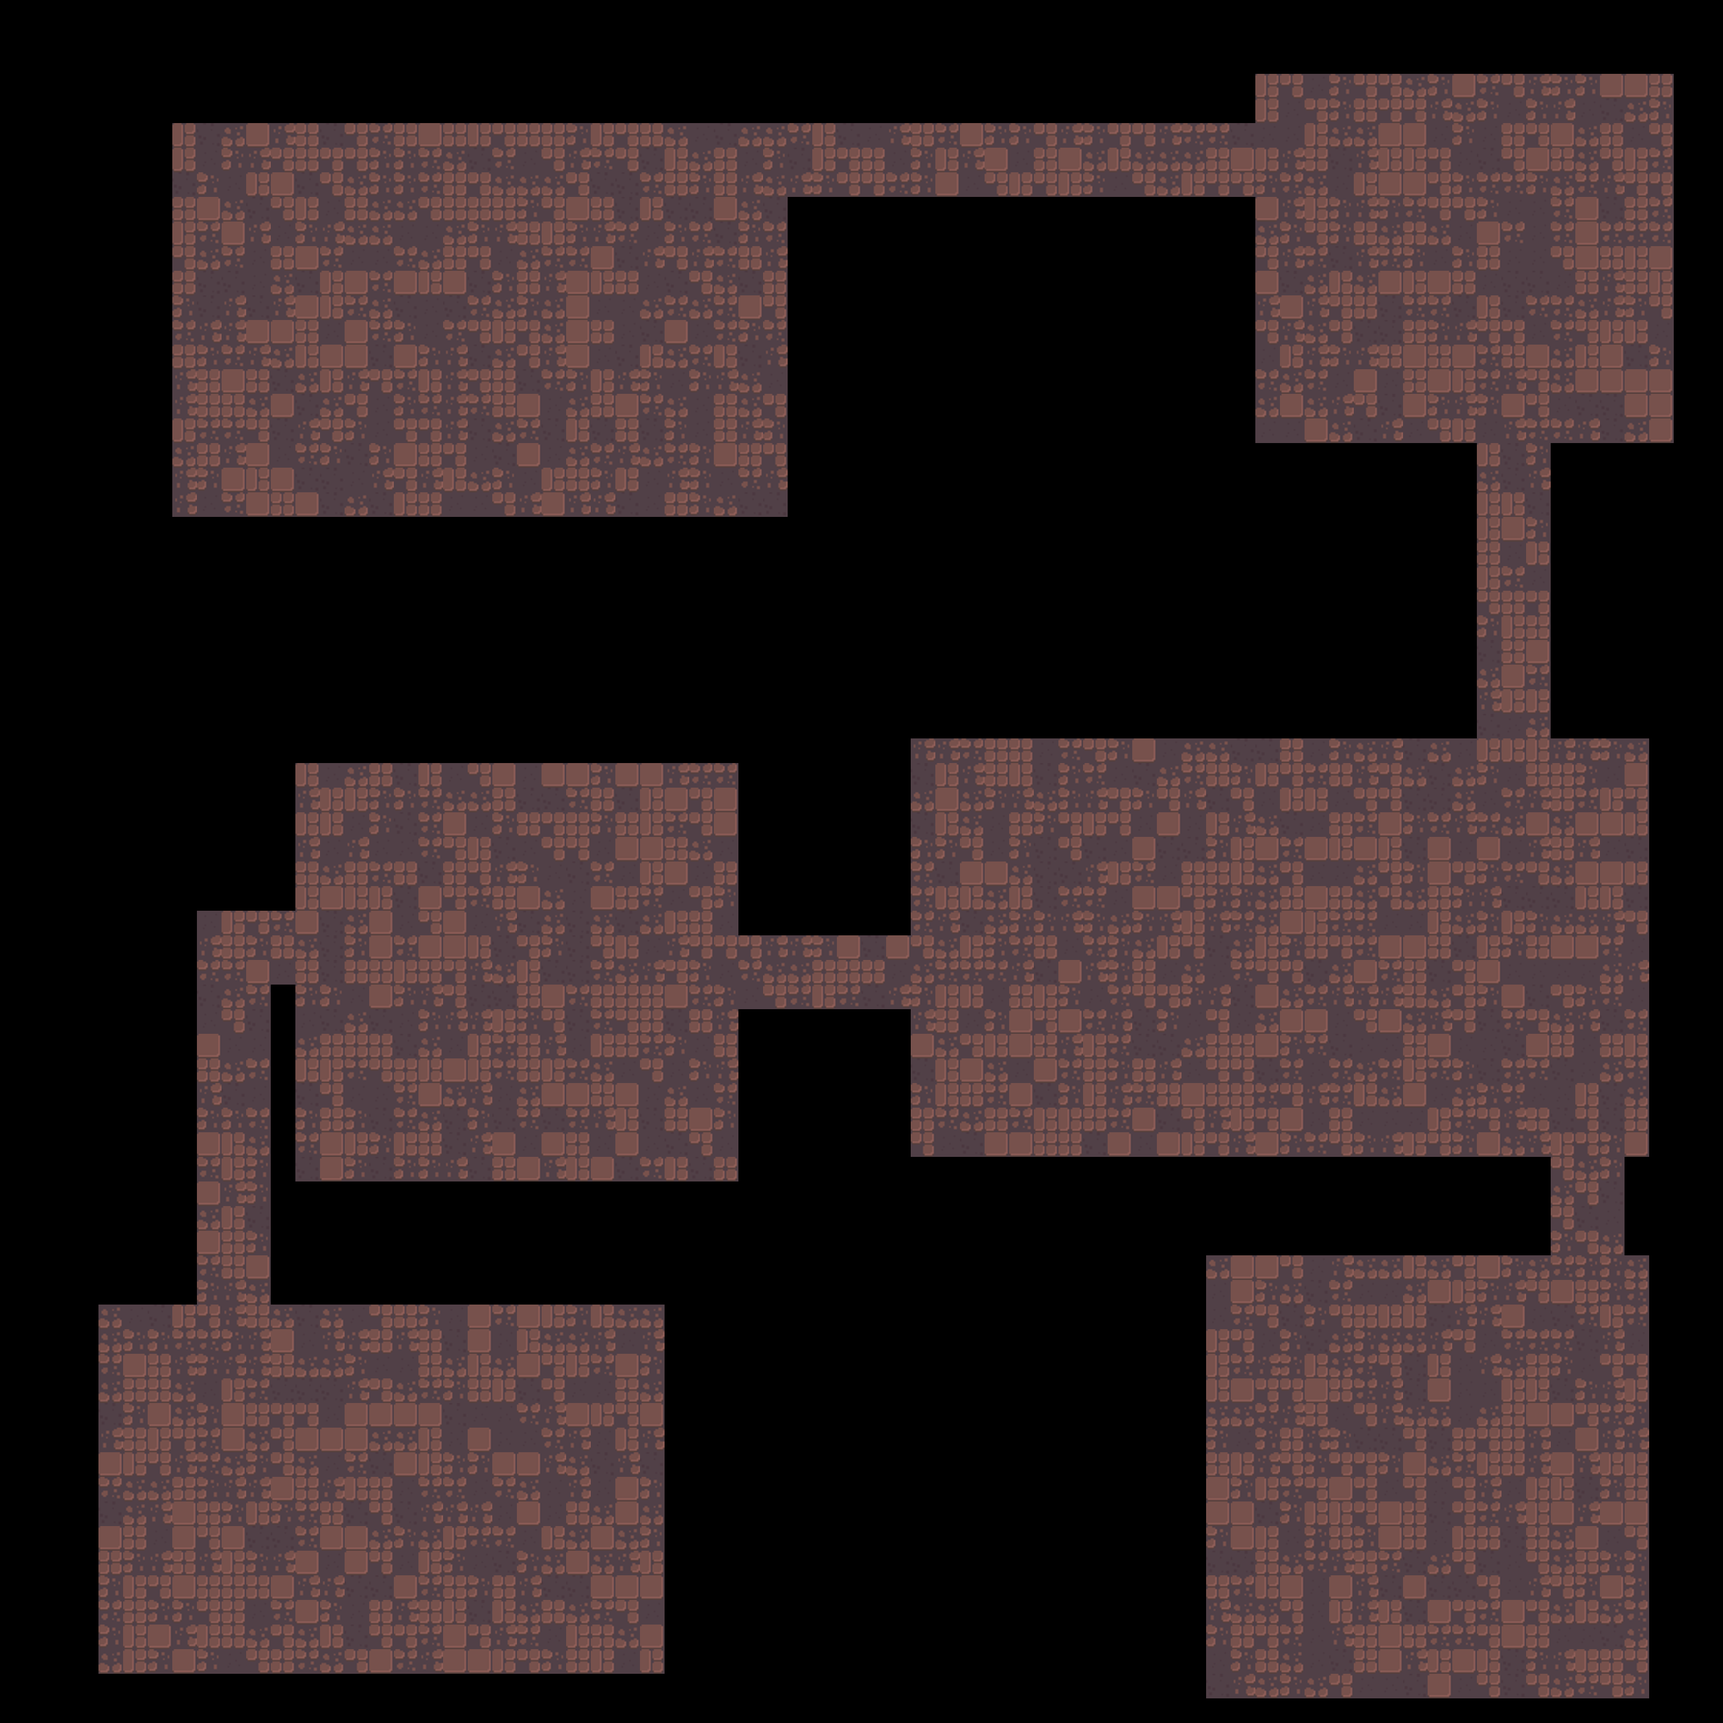
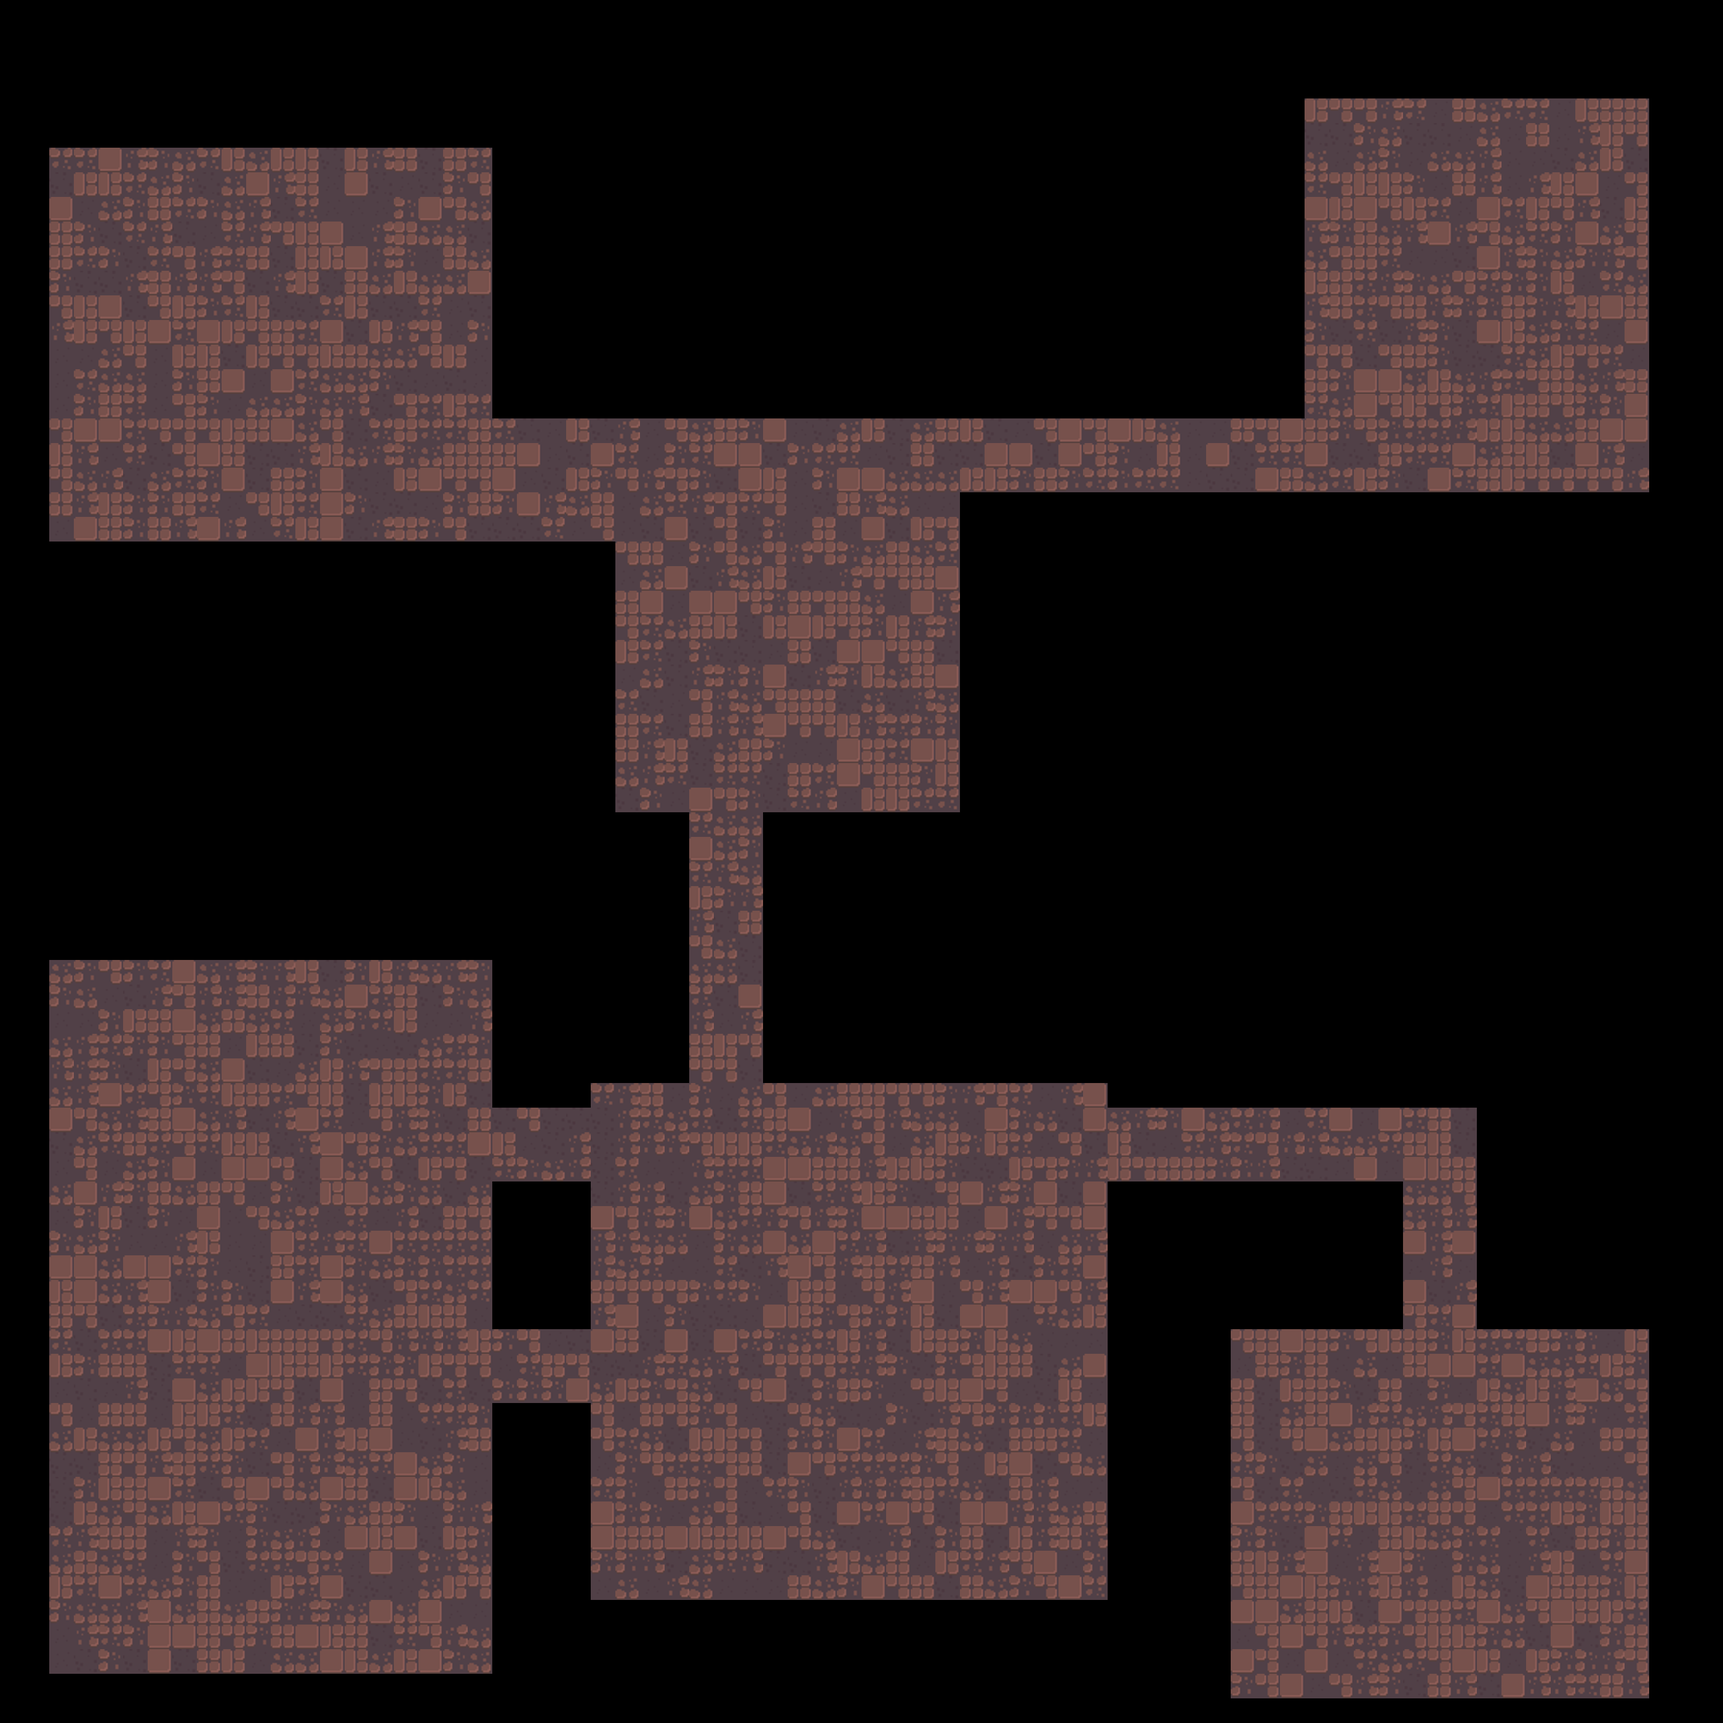
25 guns add

diff --git a/guns.py b/guns.py
@@ -1,0 +1,156 @@
+
+import pygame
+
+from functions import load_image
+from weapons import Gun
+
+
+class Gun1(Gun):
+    def __init__(self):
+        image = load_image('RoguelikeWeapons/Bullets 2-Sheet.png').subsurface(pygame.rect.Rect((32 * 1, 0), (32, 32)))
+        super(Gun1, self).__init__('RoguelikeWeapons/Weapons 1-Sheet.png', rows=8, columns=25, column=1,
+                                       width_image=70, damage=10, cooldown=0.5, bullet=image, max_columns=3)
+class Gun2(Gun):
+    def __init__(self):
+        image = load_image('RoguelikeWeapons/Bullets 2-Sheet.png').subsurface(pygame.rect.Rect((32 * 1, 0), (32, 32)))
+        super(Gun2, self).__init__('RoguelikeWeapons/Weapons 1-Sheet.png', rows=8, columns=25, column=2,
+                                       width_image=70, damage=10, cooldown=0.5, bullet=image, max_columns=3)
+
+class Gun3(Gun):
+    def __init__(self):
+        image = load_image('RoguelikeWeapons/Bullets 2-Sheet.png').subsurface(pygame.rect.Rect((32 * 1, 0), (32, 32)))
+        super(Gun3, self).__init__('RoguelikeWeapons/Weapons 1-Sheet.png', rows=8, columns=25, column=3,
+                                       width_image=70, damage=10, cooldown=0.5, bullet=image, max_columns=3)
+
+class Gun4(Gun):
+    def __init__(self):
+        image = load_image('RoguelikeWeapons/Bullets 2-Sheet.png').subsurface(pygame.rect.Rect((32 * 1, 0), (32, 32)))
+        super(Gun4, self).__init__('RoguelikeWeapons/Weapons 1-Sheet.png', rows=8, columns=25, column=4,
+                                       width_image=70, damage=10, cooldown=0.5, bullet=image, max_columns=3)
+
+class Gun5(Gun):
+    def __init__(self):
+        image = load_image('RoguelikeWeapons/Bullets 2-Sheet.png').subsurface(pygame.rect.Rect((32 * 1, 0), (32, 32)))
+        super(Gun5, self).__init__('RoguelikeWeapons/Weapons 1-Sheet.png', rows=8, columns=25, column=5,
+                                       width_image=70, damage=10, cooldown=0.5, bullet=image, max_columns=3)
+class Gun6(Gun):
+    def __init__(self):
+        image = load_image('RoguelikeWeapons/Bullets 2-Sheet.png').subsurface(pygame.rect.Rect((32 * 1, 0), (32, 32)))
+        super(Gun6, self).__init__('RoguelikeWeapons/Weapons 1-Sheet.png', rows=8, columns=25, column=6,
+                                       width_image=70, damage=10, cooldown=0.5, bullet=image, max_columns=3)
+
+class Gun7(Gun):
+    def __init__(self):
+        image = load_image('RoguelikeWeapons/Bullets 2-Sheet.png').subsurface(pygame.rect.Rect((32 * 1, 0), (32, 32)))
+        super(Gun7, self).__init__('RoguelikeWeapons/Weapons 1-Sheet.png', rows=8, columns=25, column=7,
+                                       width_image=70, damage=10, cooldown=0.5, bullet=image, max_columns=3)
+
+class Gun8(Gun):
+    def __init__(self):
+        image = load_image('RoguelikeWeapons/Bullets 2-Sheet.png').subsurface(pygame.rect.Rect((32 * 1, 0), (32, 32)))
+        super(Gun8, self).__init__('RoguelikeWeapons/Weapons 1-Sheet.png', rows=8, columns=25, column=8,
+                                       width_image=70, damage=10, cooldown=0.5, bullet=image, max_columns=3)
+
+class Gun9(Gun):
+    def __init__(self):
+        image = load_image('RoguelikeWeapons/Bullets 2-Sheet.png').subsurface(pygame.rect.Rect((32 * 1, 0), (32, 32)))
+        super(Gun9, self).__init__('RoguelikeWeapons/Weapons 1-Sheet.png', rows=8, columns=25, column=9,
+                                       width_image=70, damage=10, cooldown=0.5, bullet=image, max_columns=4)
+class Gun10(Gun):
+    def __init__(self):
+        image = load_image('RoguelikeWeapons/Bullets 2-Sheet.png').subsurface(pygame.rect.Rect((32 * 1, 0), (32, 32)))
+        super(Gun10, self).__init__('RoguelikeWeapons/Weapons 1-Sheet.png', rows=8, columns=25, column=10,
+                                       width_image=70, damage=10, cooldown=0.5, bullet=image, max_columns=3)
+
+class Gun11(Gun):
+    def __init__(self):
+        image = load_image('RoguelikeWeapons/Bullets 2-Sheet.png').subsurface(pygame.rect.Rect((32 * 1, 0), (32, 32)))
+        super(Gun11, self).__init__('RoguelikeWeapons/Weapons 1-Sheet.png', rows=8, columns=25, column=11,
+                                       width_image=70, damage=10, cooldown=0.5, bullet=image, max_columns=3)
+
+class Gun12(Gun):
+    def __init__(self):
+        image = load_image('RoguelikeWeapons/Bullets 2-Sheet.png').subsurface(pygame.rect.Rect((32 * 1, 0), (32, 32)))
+        super(Gun12, self).__init__('RoguelikeWeapons/Weapons 1-Sheet.png', rows=8, columns=25, column=12,
+                                       width_image=70, damage=10, cooldown=0.5, bullet=image, max_columns=3)
+
+class Gun13(Gun):
+    def __init__(self):
+        image = load_image('RoguelikeWeapons/Bullets 2-Sheet.png').subsurface(pygame.rect.Rect((32 * 1, 0), (32, 32)))
+        super(Gun13, self).__init__('RoguelikeWeapons/Weapons 1-Sheet.png', rows=8, columns=25, column=13,
+                                       width_image=70, damage=10, cooldown=0.5, bullet=image, max_columns=3)
+class Gun14(Gun):
+    def __init__(self):
+        image = load_image('RoguelikeWeapons/Bullets 2-Sheet.png').subsurface(pygame.rect.Rect((32 * 1, 0), (32, 32)))
+        super(Gun14, self).__init__('RoguelikeWeapons/Weapons 1-Sheet.png', rows=8, columns=25, column=14,
+                                       width_image=70, damage=10, cooldown=0.5, bullet=image, max_columns=4)
+
+class Gun15(Gun):
+    def __init__(self):
+        image = load_image('RoguelikeWeapons/Bullets 2-Sheet.png').subsurface(pygame.rect.Rect((32 * 1, 0), (32, 32)))
+        super(Gun15, self).__init__('RoguelikeWeapons/Weapons 1-Sheet.png', rows=8, columns=25, column=15,
+                                       width_image=70, damage=10, cooldown=0.5, bullet=image, max_columns=3)
+
+class Gun16(Gun):
+    def __init__(self):
+        image = load_image('RoguelikeWeapons/Bullets 2-Sheet.png').subsurface(pygame.rect.Rect((32 * 1, 0), (32, 32)))
+        super(Gun16, self).__init__('RoguelikeWeapons/Weapons 1-Sheet.png', rows=8, columns=25, column=16,
+                                       width_image=70, damage=10, cooldown=0.5, bullet=image, max_columns=3)
+
+class Gun17(Gun):
+    def __init__(self):
+        image = load_image('RoguelikeWeapons/Bullets 2-Sheet.png').subsurface(pygame.rect.Rect((32 * 1, 0), (32, 32)))
+        super(Gun17, self).__init__('RoguelikeWeapons/Weapons 1-Sheet.png', rows=8, columns=25, column=17,
+                                       width_image=70, damage=10, cooldown=0.5, bullet=image, max_columns=3)
+class Gun18(Gun):
+    def __init__(self):
+        image = load_image('RoguelikeWeapons/Bullets 2-Sheet.png').subsurface(pygame.rect.Rect((32 * 1, 0), (32, 32)))
+        super(Gun18, self).__init__('RoguelikeWeapons/Weapons 1-Sheet.png', rows=8, columns=25, column=18,
+                                       width_image=70, damage=10, cooldown=0.5, bullet=image, max_columns=4)
+
+class Gun19(Gun):
+    def __init__(self):
+        image = load_image('RoguelikeWeapons/Bullets 2-Sheet.png').subsurface(pygame.rect.Rect((32 * 1, 0), (32, 32)))
+        super(Gun19, self).__init__('RoguelikeWeapons/Weapons 1-Sheet.png', rows=8, columns=25, column=19,
+                                       width_image=70, damage=10, cooldown=0.5, bullet=image, max_columns=4)
+
+class Gun20(Gun):
+    def __init__(self):
+        image = load_image('RoguelikeWeapons/Bullets 2-Sheet.png').subsurface(pygame.rect.Rect((32 * 1, 0), (32, 32)))
+        super(Gun20, self).__init__('RoguelikeWeapons/Weapons 1-Sheet.png', rows=8, columns=25, column=20,
+                                       width_image=70, damage=10, cooldown=0.5, bullet=image, max_columns=4)
+
+
+class Gun21(Gun):
+    def __init__(self):
+        image = load_image('RoguelikeWeapons/Bullets 2-Sheet.png').subsurface(pygame.rect.Rect((32 * 1, 0), (32, 32)))
+        super(Gun21, self).__init__('RoguelikeWeapons/Weapons 1-Sheet.png', rows=8, columns=25, column=21,
+                                   width_image=70, damage=10, cooldown=0.5, bullet=image, max_columns=4)
+
+
+class Gun22(Gun):
+    def __init__(self):
+        image = load_image('RoguelikeWeapons/Bullets 2-Sheet.png').subsurface(pygame.rect.Rect((32 * 1, 0), (32, 32)))
+        super(Gun22, self).__init__('RoguelikeWeapons/Weapons 1-Sheet.png', rows=8, columns=25, column=22,
+                                   width_image=70, damage=10, cooldown=0.5, bullet=image, max_columns=4)
+
+
+class Gun23(Gun):
+    def __init__(self):
+        image = load_image('RoguelikeWeapons/Bullets 2-Sheet.png').subsurface(pygame.rect.Rect((32 * 1, 0), (32, 32)))
+        super(Gun23, self).__init__('RoguelikeWeapons/Weapons 1-Sheet.png', rows=8, columns=25, column=23,
+                                   width_image=70, damage=10, cooldown=0.5, bullet=image, max_columns=4)
+
+
+class Gun24(Gun):
+    def __init__(self):
+        image = load_image('RoguelikeWeapons/Bullets 2-Sheet.png').subsurface(pygame.rect.Rect((32 * 1, 0), (32, 32)))
+        super(Gun24, self).__init__('RoguelikeWeapons/Weapons 1-Sheet.png', rows=8, columns=25, column=24,
+                                   width_image=70, damage=10, cooldown=0.5, bullet=image, max_columns=5)
+
+
+class Gun25(Gun):
+    def __init__(self):
+        image = load_image('RoguelikeWeapons/Bullets 2-Sheet.png').subsurface(pygame.rect.Rect((32 * 1, 0), (32, 32)))
+        super(Gun25, self).__init__('RoguelikeWeapons/Weapons 1-Sheet.png', rows=8, columns=25, column=25,
+                                   width_image=70, damage=10, cooldown=3, bullet=image, max_columns=8)

diff --git a/weapons.py b/weapons.py
@@ -1,4 +1,5 @@
 import math
+import random
 import threading
 import time
 from abc import abstractmethod
@@ -21,8 +22,8 @@ class Weapon(pygame.sprite.Sprite):
         self.max_columns: int = max_columns
 
         new_img = Image.open(first_img).convert('RGBA')
-        new_img = new_img.resize(((int)(new_img.size[0] * (width_image / (new_img.size[1] / rows))),
-                                  (int)(new_img.size[1] * (width_image / (new_img.size[1] / rows)))))
+        new_img = new_img.resize(((int)(rows * width_image),
+                                  (int)(columns * width_image)))
         new_img.save('cache/weapon.png')
 
         sheet = load_image('cache/weapon.png')
@@ -48,8 +49,8 @@ class Weapon(pygame.sprite.Sprite):
 
         self.column: int = column
 
-        self.rect = pygame.Rect(0, 0, self.sheet.get_height() // self.rows,
-                                self.sheet.get_height() // self.rows)
+        self.rect = pygame.Rect(0, 0, width_image,
+                                width_image)
 
         self.frames: list = []
         self.cur_frame: int = 0
@@ -138,12 +139,18 @@ class ShortGun(Weapon):
 
     def attack(self, target: tuple[int, int]):
         for i in range(10):
-            Bullet(self.bullet, (self.rect.x, self.rect.y), target, 10, self.damage, rotate=self.angle, resize=40)
+            vec = [target[0] - self.rect.x, target[1] - self.rect.y]
+            angle = random.uniform(-0.15, 0.15)
+            rotatedX = vec[0] * math.cos(angle) - vec[1] * math.sin(angle)
+            rotatedY = vec[0] * math.sin(angle) + vec[1] * math.cos(angle)
+            Bullet(self.bullet, (self.rect.x, self.rect.y), (rotatedX + self.rect.x, rotatedY + self.rect.y), random.randint(5, 16), self.damage, rotate=self.angle, resize=40, kill_time=0.4)
 
 
 class Bow(Weapon):
     def __init__(self):
-        super(Bow, self).__init__()
+        image = load_image('RoguelikeWeapons/Bullets 3-Sheet.png').subsurface(pygame.rect.Rect((32 * 9, 0), (32, 32)))
+        super(ShortGun, self).__init__('RoguelikeWeapons/Weapons 2-Sheet.png', rows=11, columns=8, column=4,
+                                       width_image=50, damage=2, cooldown=0.5, bullet=image, max_columns=3)
 
 
 class Sword(Weapon):
@@ -152,10 +159,10 @@ class Sword(Weapon):
 
 
 class Gun(Weapon):
-    def __init__(self):
-        image = load_image('RoguelikeWeapons/Bullets 3-Sheet.png').subsurface(pygame.rect.Rect((32 * 23, 0), (32, 32)))
-        super(Gun, self).__init__('RoguelikeWeapons/Weapons 2-Sheet.png', rows=11, columns=8, column=5,
-                                  width_image=50, cooldown=0.5, damage=30, bullet=image)
+    def __init__(self, first_img: str, rows: int, columns: int, column: int,
+                 width_image: int, cooldown: float, damage: int, max_columns: int, bullet: Surface):
+        super(Gun, self).__init__(first_img, rows=rows, columns=columns, column=column,
+                                  width_image=width_image, cooldown=cooldown, damage=damage, bullet=bullet, max_columns=max_columns)
 
     def attack(self, target: tuple[int, int]):
         Bullet(self.bullet, (self.rect.x, self.rect.y), target, 10, self.damage, rotate=self.angle, resize=40)

diff --git a/animation_sprite.py b/animation_sprite.py
@@ -24,7 +24,7 @@ class AnimationSprite(pygame.sprite.Sprite):
         self.cur_frame: int = 0
         self.cur_column: int = 0
         self.image: pygame.Surface = self.list_for_sprites[self.cur_column][self.cur_frame]
-        self.rect = pygame.rect.Rect(x * TILE_SIZE, y * TILE_SIZE, TILE_SIZE, TILE_SIZE)
+        self.rect = self.rect.move(x * TILE_SIZE, y * TILE_SIZE)
         self.timer: float = time.perf_counter()
 
         self.START_POS_X: int = x * TILE_SIZE
@@ -35,13 +35,13 @@ class AnimationSprite(pygame.sprite.Sprite):
         pass
 
     def cut_sheet(self, sheet: pygame.Surface, list_for_sprites: list[list[pygame.surface.Surface]]):
-        rect = pygame.Rect(0, 0, sheet.get_width() // list_for_sprites[0].__len__(),
+        self.rect = pygame.Rect(0, 0, sheet.get_width() // list_for_sprites[0].__len__(),
                                 sheet.get_height() // self.list_for_sprites.__len__())
         for j in range(list_for_sprites.__len__()):
             for i in range(list_for_sprites[j].__len__()):
-                frame_location = (rect.w * i, rect.h * j)
-                self.list_for_sprites[j][i] = load_image('cache/img.png')#sheet.subsurface(pygame.Rect(
-                    #frame_location, rect.size))
+                frame_location = (self.rect.w * i, self.rect.h * j)
+                self.list_for_sprites[j][i] = sheet.subsurface(pygame.Rect(
+                    frame_location, self.rect.size))
 
     def update(self, *args: Any, **kwargs: Any) -> bool:
         # print(self.timer - time.perf_counter())

diff --git a/bullets.py b/bullets.py
@@ -10,7 +10,9 @@ from settings import *
 
 class Bullet(pygame.sprite.Sprite):
     def __init__(self, texture: Surface, start_pos: tuple[int, int], end_pos: tuple[int, int], speed: int, damage: int,
-                 rotate: float = 0, resize=-1):
+                 rotate: float = 0, resize=-1, kill_time: float = 100):
+        self.start_time = time.time()
+        self.kill_time = kill_time
         self.damage: int = damage
         super(Bullet, self).__init__(bullets_group, all_sprites)
 
@@ -24,13 +26,15 @@ class Bullet(pygame.sprite.Sprite):
         self.rect: pygame.rect.Rect = self.image.get_rect()
         self.rect.move_ip(start_pos)
 
-        self.update_time: float = 0.03 / speed
+        self.update_time: float = 0.1 / speed
         self.current_time: float = time.time()
         self.vector_move = pygame.math.Vector2(end_pos[0] - start_pos[0], end_pos[1] - start_pos[1]).normalize()
         self.dx = self.vector_move.x
         self.dy = self.vector_move.y
 
     def update(self, *args: Any, **kwargs: Any) -> None:
+        if time.time() - self.start_time > self.kill_time:
+            self.kill()
         if time.time() - self.current_time > self.update_time:
             self.rect.move_ip(self.dx * 20, self.dy * 20)
             self.current_time = time.time()

diff --git a/player.py b/player.py
@@ -5,6 +5,7 @@ from typing import Any
 import pygame
 
 from anim import Anim
+from guns import *
 from healthbar import Healthbar
 from settings import *
 from weapons import *
@@ -25,7 +26,7 @@ class Player(Anim):
 
         self.list_for_sprites = [[0] * 6 for _ in range(4)]
         super(Player, self).__init__(self.sheet, self.list_for_sprites, pos_x, pos_y, speed, hp)
-        self.set_weapon(ShortGun())
+        self.set_weapon(Gun25())
         self.hp_bar: Healthbar = Healthbar(self.hp)
         self.mob_radius: int = MOB_RADIUS
 

diff --git a/generation_map.py b/generation_map.py
@@ -19,7 +19,7 @@ from player import Player
 from settings import *
 from anim import *
 
-random.seed(12)
+#random.seed(12)
 
 class Map:
     def __init__(self, size: tuple[int, int]):
